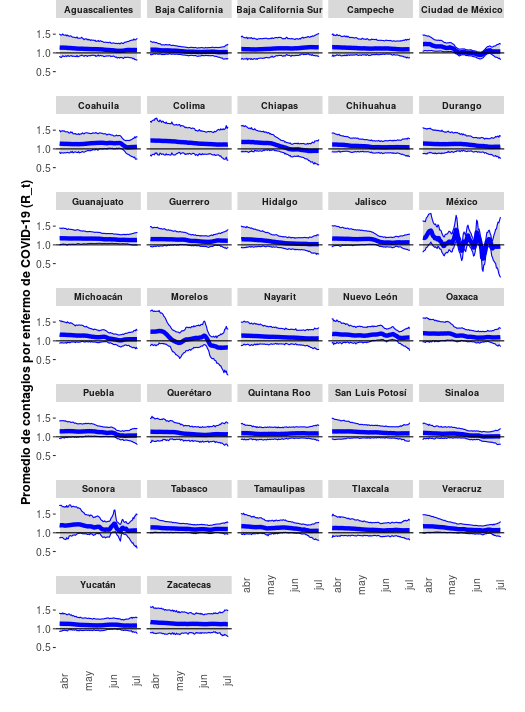
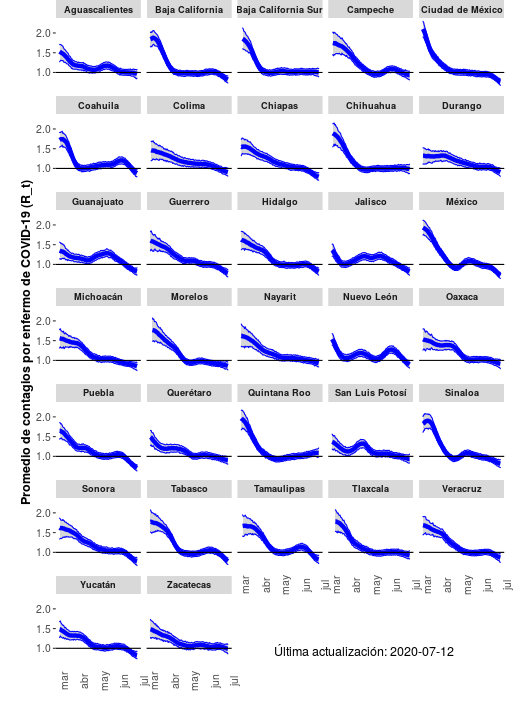
Versión 1.0.0 rt.live

diff --git a/content/estados/r_efectiva.md b/content/estados/r_efectiva.md
@@ -1,35 +1,32 @@
 ---
-title: "No se ha detenido la epidemia"
+title: "La epidemia se desacelera pero permanece"
 name: "r_efectiva"
 draft: false
 descripcion: '<p>Las epidemias avanzan porque la enfermedad
 se transmite de una persona a otra. La R efectiva (R_t) es el
 número promedio de gente contagiada por cada persona que se enferma.
 Si la R efectiva es más de uno los casos aumentan, mientras
-que si la R efectiva es menos de uno cada vez hay menos casos.</p>
+que si la R efectiva es menos de uno los casos disminuyen.</p>
 
-<p>Lograr un promedio de contagios por contagiado menor a uno es la única
-manera de que la cantidad de casos disminuya. En otras palabras, un
-R efectiva menor a uno indica que se pasó el pico epidémico. varios
-estados han mostrado una disminición en esta métrica, pero en ningún caso la
-R efectiva es claramente menor a uno, indicando que no se ha pasado el pico
-epidémico.</p>
+<p>Esta gráfica muestra la R efectiva en los estados del país.
+confirmados. Prácticamente todos los estados han logrado dismunir la tasa
+de contagios con respecto al inicio de la epidemia, aunque sólo unos pocos
+la han logrado disminuir por debajo de 1, y en algunos hay aumentos
+esporádicos. Además,
+<a href="/municipios#top_zm_casos">varias</a>
+<a href="/municipios#top_zm_casos2">zonas</a>
+<a href="/municipios#top_zm_casos3">metropolitanas</a>
+siguen mostrando una aceleración de su epidemia, por lo que la tasa
+de contagios a nivel estatal puede ocultar diferencias locales.</p>
 
-<p>Esta gráfica muestra la R efectiva en estados con al menos 500 casos
-confirmados. La línea más gruesa muestra el mejor estimado (mediana) y el
-área sombreada representa el rango más probable de valores (intervalo
-modal de 90%). Los estimados se actualizan cada noche con los datos
-más recientes. Debido al <a href="/clinicos#tiempo_deteccion">retraso</a> en
-la detección de casos aunque sólo podemos estimar la R efectiva hasta
-hace 5 días.</p>
-
-<p>Este análisis se basa en
-<a href="https://rt.live/" target="_blank">rt.live</a>
-que calcula R_t para EEUU. El código para estimar la R efectiva en
+<p>A diferencia de los casos y los fallecimientos, la tasa de contagios
+no se puede medir directamente sino que se estima indirectamente. Este análisis
+adapta el método de <a href="https://rt.live/" target="_blank">rt.live</a>
+que calcula este valor para EEUU. El código para estimar la R efectiva en
 México está
-<a href="https://github.com/coronamex/visualizando/blob/master/estados/rt.live.ipynb" target="_blank">aquí</a>
-y los estimados
-<a href="https://raw.githubusercontent.com/coronamex/visualizando/master/estimados/rt_live_estimados.csv" target="_blank"> aquí</a>.</p>'
+<a href="https://github.com/coronamex/covid-model/tree/mexico" target="_blank">aquí</a>
+y los estimados más recientes
+<a href="https://github.com/coronamex/covid-model/tree/mexico/R_efectiva/entidades" target="_blank"> aquí</a>.</p>'
 imagen: "imagenes/r_efectiva.png"
 imagen2x: "imagenes/r_efectiva@2x.png"
 alt: 'R efectiva a través del tiempo en estados con al menos 500 casos.
